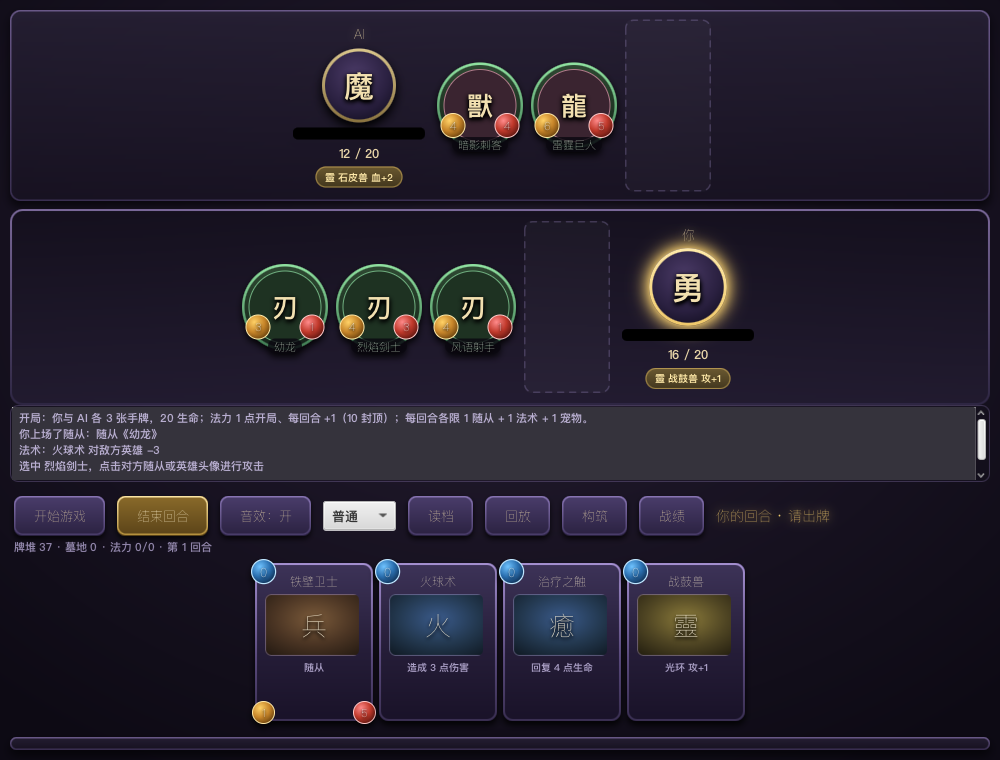
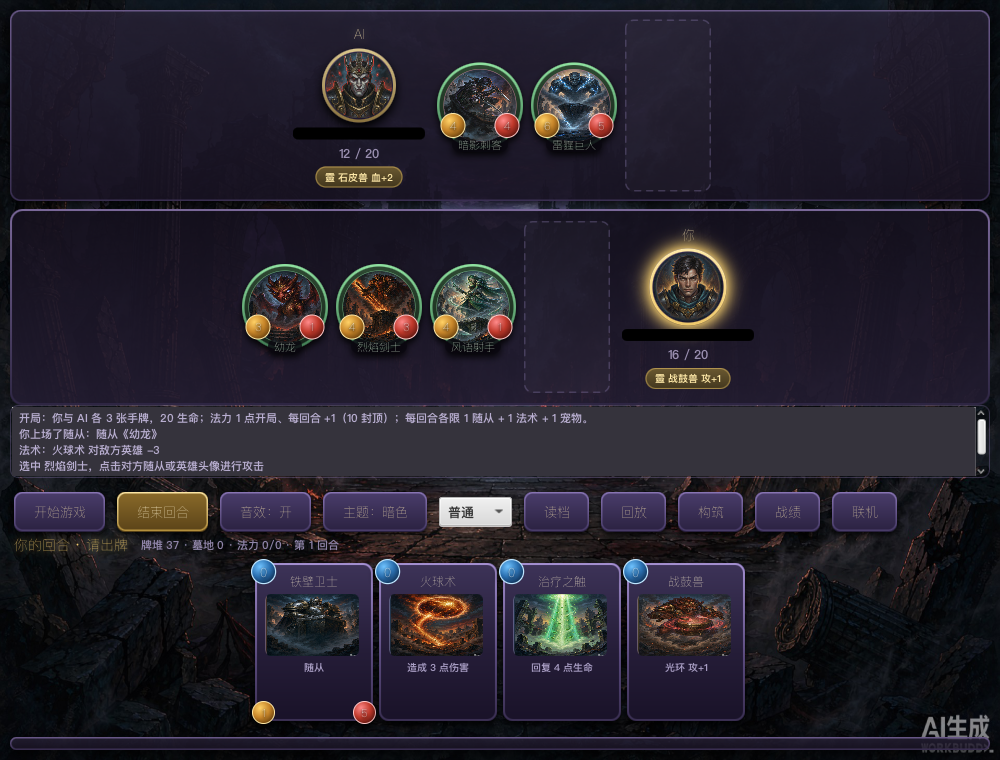
fix(ui): 亮色主题状态行/牌堆信息衬底可读化 + 刷新 README 截图（暗/亮双主题）

diff --git a/src/main/resources/theme-light.css b/src/main/resources/theme-light.css
@@ -354,10 +354,15 @@
 }
 
 .status-banner {
-    -fx-text-fill: #8a6a1a;
+    -fx-text-fill: #3a2f10;
     -fx-font-size: 14px;
     -fx-font-weight: bold;
-    -fx-effect: dropshadow(gaussian, rgba(138, 106, 26, 0.4), 10, 0.35, 0, 0);
+    /* 亮色底图是浅色石地，这行还可能被挤到按钮行尾：给字垫一层浅色衬底，放哪都读得清 */
+    -fx-background-color: rgba(255, 252, 240, 0.86);
+    -fx-background-radius: 6;
+    -fx-border-color: rgba(138, 106, 26, 0.35);
+    -fx-border-radius: 6;
+    -fx-padding: 1 8 1 8;
 }
 
 .damage-float {
@@ -385,6 +390,9 @@
 }
 
 .pile-info {
-    -fx-text-fill: #6a6a72;
+    -fx-text-fill: #3f3b33;
     -fx-font-size: 12px;
+    -fx-background-color: rgba(255, 252, 240, 0.78);
+    -fx-background-radius: 6;
+    -fx-padding: 1 8 1 8;
 }

diff --git a/README.md b/README.md
@@ -3,7 +3,11 @@
 一个炉石风格的卡牌对战游戏（玩家 vs AI），暗色奇幻美术风格，Java + JavaFX 实现。
 30 种卡牌、7 个关键词、三档 AI、可构筑牌组、可存档回放、亮暗双主题、**局域网联机对战（v2.0 M0–M3 预览）**。
 
-![游戏截图](docs/screenshot.png)
+![游戏截图（暗色主题）](docs/screenshot.png)
+
+点工具栏「主题」即可在暗色 / 亮色之间切换：
+
+![亮色主题截图](docs/screenshot-light.png)
 
 ## 下载游玩
 
